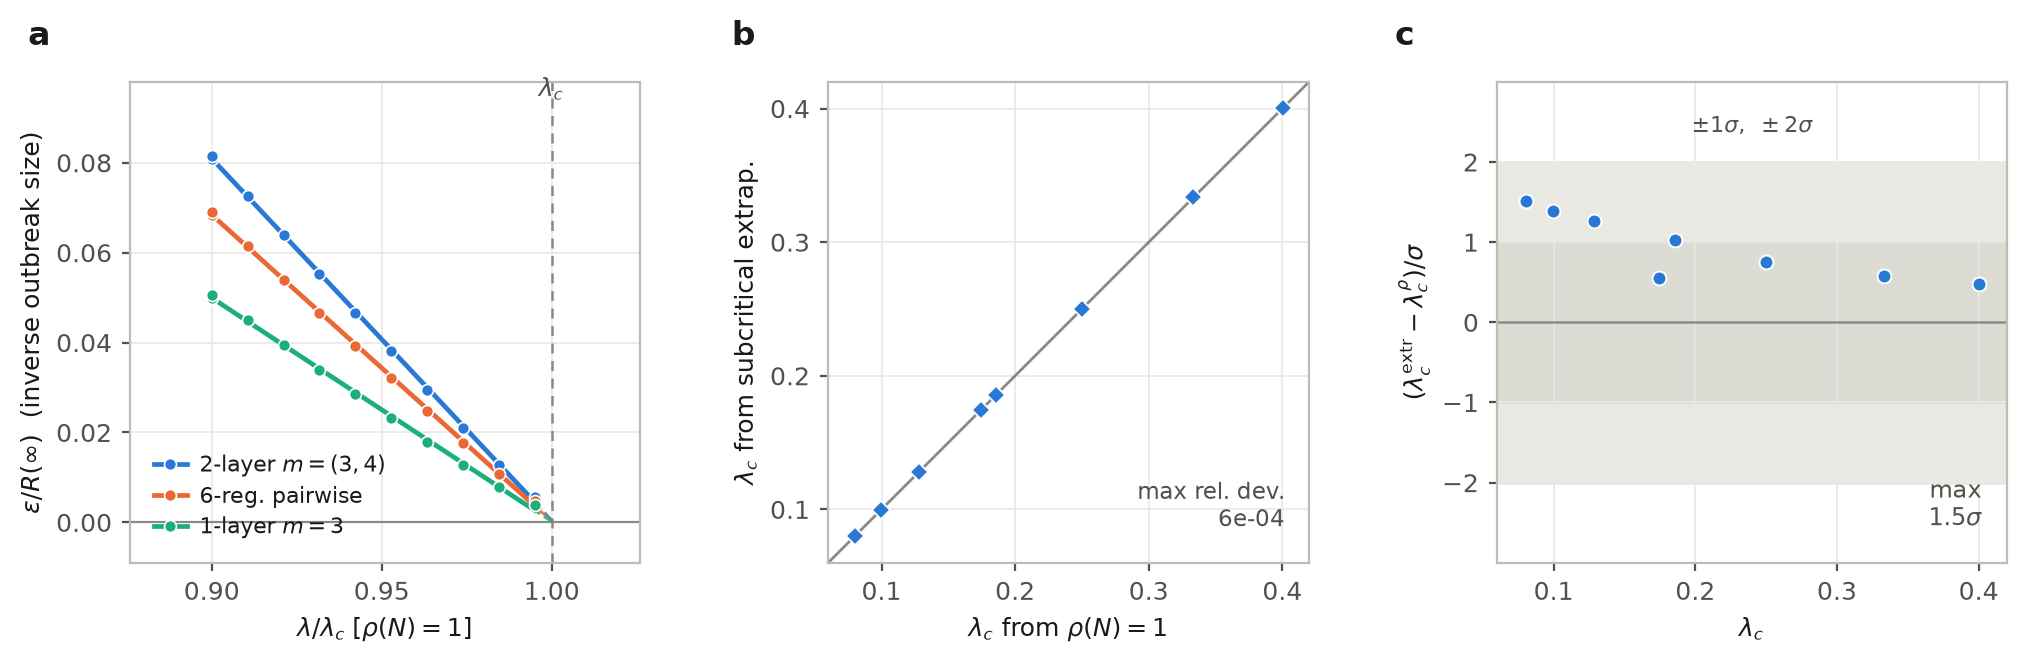
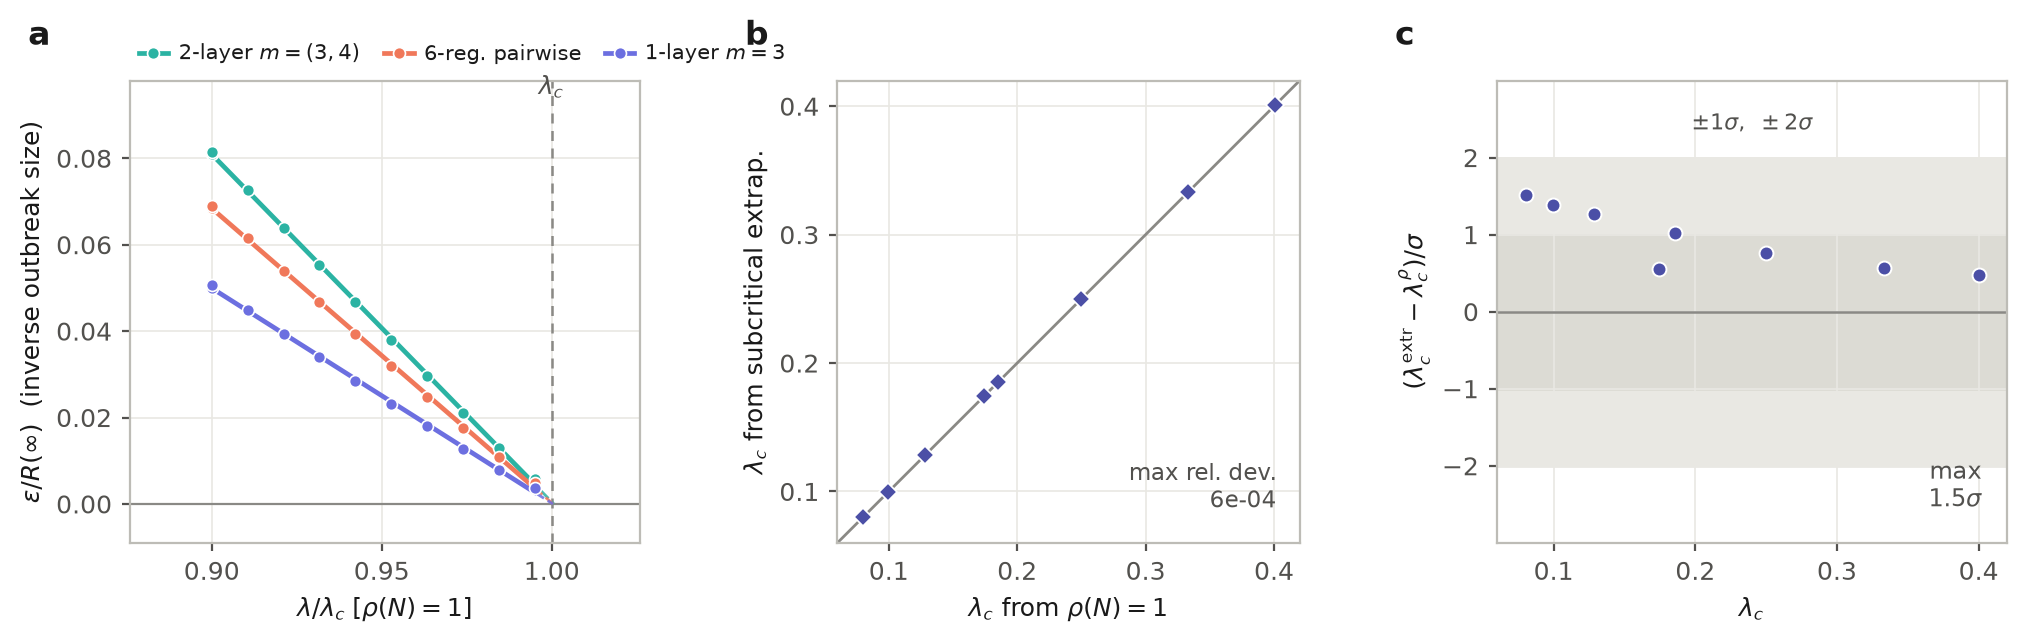
Figure 2: fresh palette + legend moved above panel (a)
- Recolor to a fresh, colorblind-safe palette (teal/coral/periwinkle for the
  three example configs; deep indigo for the single-series panels b/c),
  validated worst all-pairs CVD dE 11.7 / normal-vision 23.4.
- Move the panel (a) legend to a horizontal row above the axes, so the labels
  sit well clear of both the frame and the curves.

Data and results unchanged.

Claude-Session: https://claude.ai/code/session_01GMqZS1ZXii3SRe677Qn7Mk

diff --git a/multiplex-hypergraph-sir/figure_lambda_c.py b/multiplex-hypergraph-sir/figure_lambda_c.py
@@ -8,7 +8,11 @@ from matplotlib.ticker import MultipleLocator
 # ---------------------------------------------------------------- style
 INK, SEC, MUTED = "#1a1a1a", "#52514e", "#8a8985"
 GRID, SPINE = "#e9e8e3", "#bdbcb6"
-BLUE, ORANGE, AQUA = "#2a78d6", "#eb6834", "#1baf7a"
+# fresh, colorblind-safe palette (validated: worst all-pairs CVD dE 11.7,
+# normal-vision dE 23.4); thick lines + markers + legend supply the relief
+# for the sub-3:1 contrast of teal/coral.
+TEAL, CORAL, PERI = "#2BB3A3", "#F0785A", "#6C6FE0"
+PT = "#4B4FA6"   # single-series accent for panels (b) and (c)
 
 mpl.rcParams.update({
     "figure.dpi": 140, "savefig.dpi": 300,
@@ -29,8 +33,8 @@ mpl.rcParams.update({
 data = json.load(open("figure_data.json"))
 by = {r["name"]: r for r in data}
 
-fig, (axA, axB, axC) = plt.subplots(1, 3, figsize=(10.2, 3.25))
-fig.subplots_adjust(left=0.065, right=0.985, bottom=0.16, top=0.90, wspace=0.34)
+fig, (axA, axB, axC) = plt.subplots(1, 3, figsize=(10.2, 3.35))
+fig.subplots_adjust(left=0.065, right=0.985, bottom=0.155, top=0.845, wspace=0.34)
 
 def panel_tag(ax, s):
     ax.text(-0.20, 1.06, s, transform=ax.transAxes, fontsize=12,
@@ -39,9 +43,9 @@ def panel_tag(ax, s):
 # ============================================================ (a) method
 # plot in normalised lambda/lambda_c so the three configs share an axis and
 # their linear approach to zero crosses together at the rho(N)=1 point (x=1).
-show = [("2-layer m=(3,4)", BLUE,   "2-layer $m{=}(3,4)$"),
-        ("6-reg. pairwise", ORANGE, "6-reg. pairwise"),
-        ("m=3 deg{2,3}",    AQUA,   "1-layer $m{=}3$")]
+show = [("2-layer m=(3,4)", TEAL,  "2-layer $m{=}(3,4)$"),
+        ("6-reg. pairwise", CORAL, "6-reg. pairwise"),
+        ("m=3 deg{2,3}",    PERI,  "1-layer $m{=}3$")]
 axA.axvline(1.0, color=MUTED, lw=0.9, ls=(0, (4, 3)), zorder=1)
 axA.axhline(0, color=MUTED, lw=0.8, zorder=1)
 handles = []
@@ -68,10 +72,11 @@ axA.set_ylabel(r"$\varepsilon/R(\infty)$  (inverse outbreak size)")
 axA.xaxis.set_major_locator(MultipleLocator(0.05))
 axA.text(1.0, 0.0935, r"$\lambda_c$", fontsize=9, color=SEC,
          ha="center", va="bottom")
-# labels listed separately in a frameless legend, in the empty lower-left
-axA.legend(handles=handles, loc="lower left", frameon=False, fontsize=7.8,
-           handlelength=1.5, handletextpad=0.6, labelspacing=0.4,
-           borderaxespad=0.7)
+# labels listed separately, in a horizontal legend above the panel (out of the
+# plotting area) so nothing overlaps the frame or the curves
+axA.legend(handles=handles, loc="lower left", bbox_to_anchor=(0.0, 1.015),
+           ncol=3, frameon=False, fontsize=7.6, handlelength=1.4,
+           handletextpad=0.5, columnspacing=1.1, borderaxespad=0.0)
 panel_tag(axA, "a")
 
 # ============================================================ (b) agreement
@@ -80,8 +85,8 @@ lce = np.array([r["lc_extrap"] for r in data])
 sig = np.array([r["sigma"] for r in data])
 lo, hi = 0.06, 0.42
 axB.plot([lo, hi], [lo, hi], "-", color=MUTED, lw=1.0, zorder=1)
-axB.errorbar(lcr, lce, yerr=sig, fmt="D", ms=4.6, mfc=BLUE, mec="white",
-             mew=0.6, ecolor=BLUE, elinewidth=1.0, capsize=2, zorder=3)
+axB.errorbar(lcr, lce, yerr=sig, fmt="D", ms=4.6, mfc=PT, mec="white",
+             mew=0.6, ecolor=PT, elinewidth=1.0, capsize=2, zorder=3)
 axB.set_xlim(lo, hi); axB.set_ylim(lo, hi)
 axB.set_aspect("equal")
 axB.set_xlabel(r"$\lambda_c$ from $\rho(N)=1$")
@@ -100,7 +105,7 @@ x = lcr[order]; y = pull[order]
 axC.axhspan(-2, 2, color=GRID, zorder=0)
 axC.axhspan(-1, 1, color="#dcdbd4", zorder=0)
 axC.axhline(0, color=MUTED, lw=0.9, zorder=1)
-axC.plot(x, y, "o", ms=5.0, mfc=BLUE, mec="white", mew=0.7, zorder=3)
+axC.plot(x, y, "o", ms=5.0, mfc=PT, mec="white", mew=0.7, zorder=3)
 axC.set_ylim(-3, 3)
 axC.set_xlim(0.06, 0.42)
 axC.set_xlabel(r"$\lambda_c$")
